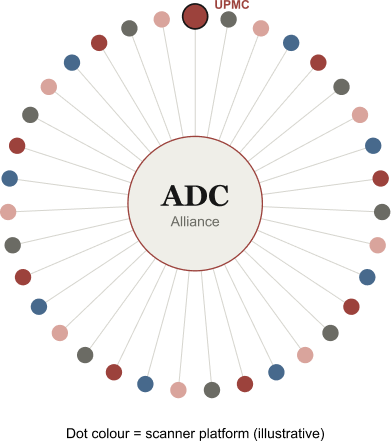
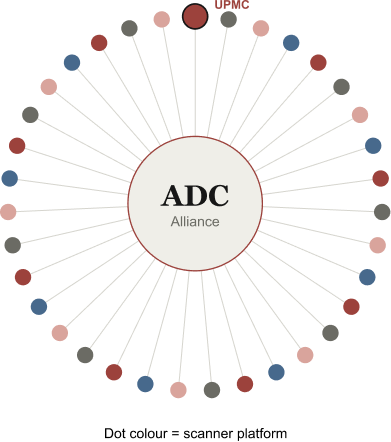
Zoom-out colour, no vote 2, sharper cohort tiles, fewer overlays and caveats
- Zooming out from the slide: the glass tint now fades while you are in
  the tissue, so the overview around the full-resolution region keeps its
  true colour instead of turning grey-blue
- Removed the second vote (with QR) and "How the room read it"; speaker
  notes and README no longer refer to votes
- Cohort grid: 48 in-focus crops cut at ~20x from the full-resolution
  scan (sharpest of 180 candidates), drawn at 2x; the case tile matches
- Final view at Ohio State: the four site overlays are removed
- Search slide: no "Illustrative search concept" tag; "Similar cases"
- ADC graphic: "(illustrative)" removed from the caption

Changed region(s): [[0.1535, 0.9706, 0.8286, 1.0]]

diff --git a/assets/content.js b/assets/content.js
@@ -5,7 +5,7 @@
 //   rail   which rail item is current (defaults to its position)
 //   quote  what the speaker says on screen
 //   chrome the title bar of the screen frame (defaults to the demo's)
-//   tag    a flag in the title bar, e.g. "Illustrative search concept"
+//   tag    a flag in the title bar, e.g. "Research concept · not validated"
 //   screen what the live demo shows (the placeholder text when there is no media)
 //   images screenshots, clicked through in order; then the iframe, if there is one
 //   iframe a live PathPresenter link (iframeAction labels the click that opens it)
@@ -183,7 +183,7 @@ window.CONTENT = {
             { src: 'assets/wsi/consult/Order-stain-more.png', alt: 'Additional stain selected' },
             { src: 'assets/wsi/consult/more-order-stain.png', alt: 'Stain ordered' },
           ],
-          notes: 'Archana, beat 4 (2:05 to 2:40). Request DUX4. "These will tell me which way this goes. They\'re cut, scanned, and they land in this case with everything else, whichever lab cut them and whichever scanner they came off. I\'m notified when they\'re ready." Don\'t name the diagnosis yet; it stays sealed until the second vote.'
+          notes: 'Archana, beat 4 (2:05 to 2:40). Request DUX4. "These will tell me which way this goes. They\'re cut, scanned, and they land in this case with everything else, whichever lab cut them and whichever scanner they came off. I\'m notified when they\'re ready." Don\'t name the diagnosis yet; it is revealed at the end.'
         },
         {
           quote: 'Can I mark the tumor, assess adequacy, and request the molecular testing needed to resolve the diagnosis?', chrome: "Beaker · Cincinnati Children's Hospital · PV26-001",
@@ -205,7 +205,7 @@ window.CONTENT = {
           ],
           iframe: 'assets/wsi/consult/final-report.pdf',
           iframeAction: 'Open the final report',
-          notes: 'Archana, beat 6 (3:15 to 4:15). "My report starts with what came in: the patient, the referring diagnosis, and the stains already done. I add my stains, the AI result I accepted, and my diagnosis and comment, which I\'ll keep to myself until the end so you can vote again. The consult code is already right. When I sign out, the completed consult report goes electronically back into Swati\'s original Beaker case, and she\'s notified. She completes her reporting in her own LIS. There\'s no printing a report, faxing it, packaging slides, or shipping anything back."'
+          notes: 'Archana, beat 6 (3:15 to 4:15). "My report starts with what came in: the patient, the referring diagnosis, and the stains already done. I add my stains, the AI result I accepted, and my diagnosis and comment, which I\'ll keep to myself until the end. The consult code is already right. When I sign out, the completed consult report goes electronically back into Swati\'s original Beaker case, and she\'s notified. She completes her reporting in her own LIS. There\'s no printing a report, faxing it, packaging slides, or shipping anything back."'
         },
       ],
     },
@@ -216,12 +216,12 @@ window.CONTENT = {
       steps: [
         {
           rail: 0, notes: 'Matt, beat 1 (0:20 to 1:05). "Before I write a single query, I start with the image. I draw a region on our case and ask the Alliance the question every pathologist asks: have we seen this before? The search runs on the pixels, not the words. The region becomes an image embedding, and it is compared against every slide this project is permitted to see. Back come the closest matches, from different sites, different scanners, different staining labs. Each one is a real case with a report, IHC, molecular results, treatment and follow-up behind it. For the pathologist, that\'s a reference library. For the researcher, it\'s the first glimpse of a cohort. But to search 35 institutions at once, you first need 35 institutions willing to work together." Site numbers, scanners and similarity scores are placeholders, not results.',
-          quote: 'Have we seen this before? Ask with the slide itself.', chrome: 'PathPresenter Research · ADC Alliance · Search by image', tag: 'Illustrative search concept · not live results',
+          quote: 'Have we seen this before? Ask with the slide itself.', chrome: 'PathPresenter Research · ADC Alliance · Search by image',
           html: `<div class="v-search">
             <div class="v-query"><p class="v-label">Query · our case</p>
               <figure class="v-tile v-tile-big"><div style="background-image:url(${WSI}/field40.jpg)"><i class="v-region"></i></div><figcaption>H&amp;E region drawn on our case</figcaption></figure>
               <p class="v-note">Region selected on the slide, converted to an image embedding, compared across every permitted slide.</p></div>
-            <div class="v-matches"><p class="v-label">Example matches · not study findings</p>
+            <div class="v-matches"><p class="v-label">Similar cases</p>
               <div class="v-grid">${[['07', '0.94', 'A'], ['22', '0.92', 'C'], ['03', '0.91', 'B'], ['31', '0.89', 'A'], ['14', '0.88', 'D'], ['19', '0.86', 'B']].map(([s, c, k], i) => match(i + 1, `Site ${s} <b>${c}</b>`, `<span>Scanner ${k}</span>`)).join('')}</div></div>
             <p class="v-foot">Potential value: similar morphology linked to available records, within institutional permissions. Results shown are illustrative.</p>
             <p class="v-credit">Match images: Wikimedia Commons, CC BY-SA 3.0 / 4.0 and CC BY 2.0 (credits in README)</p></div>` },
@@ -355,7 +355,7 @@ window.CONTENT = {
           ],
           iframe: 'https://pathpresenter.net/public/takeAssessment?token=9a3149d0',
           iframeAction: 'Open the assessment',
-          notes: 'Junya, beat 3 (1:30 to 2:05). "Before I teach, I want to know what they know. I build the question on the slide itself: here is the H&E, what is your diagnosis? This is where my learners start." The room\'s own Vote 1 is the same question with the same four options; point back to it, but don\'t show the answer.'
+          notes: 'Junya, beat 3 (1:30 to 2:05). "Before I teach, I want to know what they know. I build the question on the slide itself: here is the H&E, what is your diagnosis? This is where my learners start." It is the same differential Raj showed at the start; point back to it, but don\'t show the answer.'
         },
         {
           quote: 'Before I teach, I want to know what they know.',
@@ -406,7 +406,7 @@ window.CONTENT = {
             { src: 'assets/wsi/education/conference-poster-list.png', alt: 'Conference poster list' },
             { src: 'assets/wsi/education/conferencce-poster-view.png', alt: 'A conference poster' }
           ],
-          notes: 'Junya. The conference: the room and the online audience on the same slide. Then the journey slide; Raj takes the second vote.'
+          notes: 'Junya. The conference: the room and the online audience on the same slide. Then the journey slide.'
         },
       ],
     },
@@ -434,9 +434,7 @@ window.CONTENT = {
     's-cohort': 'Matt. The cohort, visualized: the traveling case pulls back into the collection, then the query narrows it. If the traveling case cannot be in the alliance data, say "cases like ours".',
     's-send3': 'Transition, about 10 seconds. 11,317 km across the Pacific, into a teaching collection. Still no glass shipped.',
     's-card4': 'Junya, beat 0 (0:00 to 0:20). "Matt turned one case into a dataset. I\'m going to turn it into teaching, for a resident down the hall and for a pathologist on the other side of the world, at the same time." His segment runs 4:50.',
-    's-world': 'Raj. 159 plus 414 plus 11,317 km: 11,890 km in all. Four sites, three handoffs, no glass shipped. Then straight into the second vote.',
-    's-vote2': 'Same question, same QR. This is the post-assessment; the room sees its own before and after.',
-    's-compare': 'Fill in live from the poll. "Now we know whether we taught anything. That is evidence, not a feeling."',
+    's-world': 'Raj. 159 plus 414 plus 11,317 km: 11,890 km in all. Four sites, three handoffs, no glass shipped. Then back to the field at Ohio State.',
     's-home': 'Every site\'s work sits on the same field, in the same case. The camera dives back to Ohio State and the 40x field.',
     's-diagnosis': 'Archana, about 30 seconds, then hand back to Raj. "CIC-rearranged sarcoma." Walk what settled it: the CD99 was patchy instead of diffusely membranous; ETV4 and WT1 were nuclear, which pointed to a CIC rearrangement; DUX4 and fusion testing at Cincinnati Children\'s confirmed it. Then why it matters: it behaves worse than Ewing sarcoma and responds less to Ewing-type chemotherapy, so the name changes the conversation with the oncologist. Raj, one line to turn into the close: "Four institutions, one answer, and the patient never waited for a box to arrive. That\'s what better together means." Confirm the stains and molecular result the case actually has before showing.',
     's-history': 'Raj, 45 seconds. "We built around the pathologist, not around a product category. In 2018 I needed a better way to teach. Then the FDA asked whether we could collect research-grade data at scale, so we built research. Then the pandemic locked pathologists out of their labs, and they started sending each other consults, so we built consults. Primary diagnosis came last. The build order is the argument: every module you saw today began as a gap we hit as pathologists, and was built for the person signing out the case." The 70,000+ users figure is carried over from an earlier draft; confirm before showing.',

diff --git a/assets/app.js b/assets/app.js
@@ -250,7 +250,10 @@
     if (glassW < 2) return;
     // the glass fades into a dot once it is a few pixels wide
     const ga = clamp01((glassW - 4 * U) / (14 * U));
-    drawLayer(TEX.glass, G.w / 1000, G.h / 1000, cx + G.cx * kmm, cy + G.cy * kmm, k, ga);
+    // zoomed into the tissue, the glass tint would grey the overview around the
+    // full-resolution tiles, so it fades out once the slide is several screens wide
+    const gIn = clamp01((7 * W - glassW) / (4 * W));
+    drawLayer(TEX.glass, G.w / 1000, G.h / 1000, cx + G.cx * kmm, cy + G.cy * kmm, k, ga * gIn);
     const O = T.OVERVIEW;
     // multiply, so the scan's white background takes on the glass beneath it
     ctx.globalCompositeOperation = 'multiply';
@@ -650,17 +653,17 @@
     const matches = new Set();
     while (matches.size < 17) { const i = Math.floor(r() * cols * rows); if (i !== caseIndex) matches.add(i); }
     for (let i = 0; i < cols * rows; i++) {
-      const c = document.createElement('canvas'); c.width = 128; c.height = 96;
+      const c = document.createElement('canvas'); c.width = 256; c.height = 192;   // 2x, sharp on high-DPI screens
       const g = c.getContext('2d');
       if (i === caseIndex) {
         const f = TEX.field40;
-        g.drawImage(f, f.naturalWidth * 0.3, f.naturalHeight * 0.15, f.naturalWidth * 0.5, f.naturalHeight * 0.667, 0, 0, 128, 96);
+        g.drawImage(f, f.naturalWidth * 0.393, f.naturalHeight * 0.358, f.naturalWidth * 0.2133, f.naturalHeight * 0.2844, 0, 0, 256, 192);   // same ~0.13 mm field as the sprite crops
         c.className = 'is-case';
       } else {
         const cell = Math.floor(r() * TISSUE.spriteCells), sx = (cell % 8) * 256, sy = Math.floor(cell / 8) * 192;
         g.filter = `hue-rotate(${(r() - 0.5) * 24}deg) saturate(${0.75 + r() * 0.5}) brightness(${0.94 + r() * 0.12})`;
-        if (r() < 0.5) { g.translate(128, 96); g.rotate(Math.PI); }
-        g.drawImage(TEX.sprite, sx, sy, 256, 192, 0, 0, 128, 96);
+        if (r() < 0.5) { g.translate(256, 192); g.rotate(Math.PI); }
+        g.drawImage(TEX.sprite, sx, sy, 256, 192, 0, 0, 256, 192);
         if (matches.has(i)) c.className = 'is-match';
       }
       grid.appendChild(c);
@@ -766,7 +769,6 @@
   // A site's demo: one step per stage of its demo slide, words from content.js.
   const demo = (key, at, from = 0, to) => CONTENT.demos[key].steps.slice(from, to)
     .map((d, i) => ({ slide: `s-demo-${key}`, stage: from + i, veil: 1, at, notes: d.notes }));
-  const ALL_MARKS = ['columbus', 'cincinnati', 'pittsburgh', 'nagasaki'];
   const STEPS = [
     // the opening, at 40x at Ohio State
     { slide: 's-title', veil: 0.9, view: 'lab40', enter: () => { setTitle(0); tween(300, 3200, setTitle); } },
@@ -802,18 +804,11 @@
     // 04 · Teach
     { slide: 's-card4', veil: 0, view: 'nagasaki', at: 'nagasaki', scale: true },
     ...demo('teach', 'nagasaki'),
-    // close: the whole journey, the second vote, back to the same field, then the platform story
+    // close: the whole journey, back to the same field, then the platform story
     { slide: 's-world', veil: 0, view: 'globe', at: 'nagasaki', scale: true, learners: true,
       enter: () => { S.spin = false; S.learners = 0; flight(VIEWS.globe, 4200, { rho: 1.3, done: startSpin }); tween(3200, 5000, t => { S.learners = t; }); countTotal(); } },
-    { slide: 's-vote2', veil: 0.94, view: 'globe', at: 'nagasaki', learners: true },
-    { slide: 's-compare', veil: 0.94, view: 'globe', at: 'nagasaki', learners: true },
-    { slide: 's-home', veil: 0, view: 'lab40', at: 'columbus', home: true, scale: true, marks: ALL_MARKS, captionDelay: 9800,
-      enter: () => {
-        S.spin = false;
-        ALL_MARKS.forEach(k => { S.marks[k] = 0; });
-        flight(VIEWS.lab40, 10000, { rho: 1.5 });
-        ALL_MARKS.forEach((k, i) => tween(10200 + i * 900, 900, t => { S.marks[k] = t; }));
-      } },
+    { slide: 's-home', veil: 0, view: 'lab40', at: 'columbus', home: true, scale: true, captionDelay: 9800,
+      enter: () => { S.spin = false; flight(VIEWS.lab40, 10000, { rho: 1.5 }); } },
     { slide: 's-diagnosis', veil: 1, view: 'lab40' },
     { slide: 's-history', veil: 1, view: 'globe' },
     { slide: 's-never', veil: 1, view: 'globe' },

diff --git a/index.html b/index.html
@@ -3504,56 +3504,7 @@
       </div>
     </section>
 
-    <section class="slide" id="s-vote2" aria-label="Vote 2">
-      <div class="content">
-        <p class="kicker">Vote 2 of 2 · After four sites</p>
-        <h2 class="h-l">Would you change your read?</h2>
-        <div style="display:flex;justify-content:space-between;align-items:flex-end;margin-top:3cqw">
-          <ol class="options" style="margin:0">
-            <li><b>A</b>Ewing sarcoma</li>
-            <li><b>B</b>Alveolar rhabdomyosarcoma</li>
-            <li><b>C</b>CIC-rearranged sarcoma</li>
-            <li><b>D</b>Desmoplastic small round cell tumor</li>
-          </ol>
-          <div class="qr ph" data-qr="poll" style="width:14cqw;height:14cqw">[Same QR code as vote 1]</div>
-        </div>
-      </div>
-    </section>
 
-    <section class="slide" id="s-compare" aria-label="Vote comparison">
-      <div class="content">
-        <p class="kicker">Same room, <span class="tbd">[__]</span> minutes later</p>
-        <h2 class="h-m">How the room read it</h2>
-        <table class="compare">
-          <tr>
-            <th>Read</th>
-            <th>Vote 1</th>
-            <th>Vote 2</th>
-          </tr>
-          <tr>
-            <td>A · Ewing sarcoma</td>
-            <td class="tbd">[__]%</td>
-            <td class="tbd">[__]%</td>
-          </tr>
-          <tr>
-            <td>B · Alveolar rhabdomyosarcoma</td>
-            <td class="tbd">[__]%</td>
-            <td class="tbd">[__]%</td>
-          </tr>
-          <tr>
-            <td>C · CIC-rearranged sarcoma</td>
-            <td class="tbd">[__]%</td>
-            <td class="tbd">[__]%</td>
-          </tr>
-          <tr>
-            <td>D · Desmoplastic small round cell tumor</td>
-            <td class="tbd">[__]%</td>
-            <td class="tbd">[__]%</td>
-          </tr>
-        </table>
-        <p class="body serif" style="margin-top:2cqw;font-size:1.8cqw">Evidence, not a feeling.</p>
-      </div>
-    </section>
 
     <section class="slide" id="s-home" aria-label="Back at Ohio State">
       <div class="panel caption">
@@ -3853,10 +3804,10 @@
   <script src="assets/vendor/topojson-client.min.js"></script>
   <script src="assets/vendor/qrcode.js"></script>
   <script src="assets/vendor/openseadragon.min.js"></script>
-  <script src="assets/geo/data.js?v=20261014e"></script>
-  <script src="assets/content.js?v=20261014e"></script>
-  <script src="assets/tissue.js?v=20261014e"></script>
-  <script src="assets/app.js?v=20261014e"></script>
+  <script src="assets/geo/data.js?v=20261014g"></script>
+  <script src="assets/content.js?v=20261014g"></script>
+  <script src="assets/tissue.js?v=20261014g"></script>
+  <script src="assets/app.js?v=20261014g"></script>
 </body>
 
 </html>

diff --git a/README.md b/README.md
@@ -19,7 +19,7 @@ offline.
   for labels and headings, Overpass Mono for coordinates and distances, and
   Source Serif 4 italic for water and quotes. Fonts are vendored in `assets/fonts`. Home and End jump to the first and last slide.
 - `#12` in the URL opens slide 12.
-- Whenever the slide is on screen at 40x (the opening case, both votes, the
+- Whenever the slide is on screen at 40x (the opening case, the differential, the
   return home and the final diagnosis) the stage is a slide viewer: drag to
   move, scroll or pinch to zoom, double-click to zoom in, `+`/`-` to zoom and
   `0` to reset. Clicks don't advance on those views; arrow keys and clickers
@@ -48,8 +48,8 @@ editing so browsers reload.
 1. Title (a map cartouche with the four stops and presenters), disclosures,
    the question that started it (diagnose, consult, discover, teach)
 2. The case at 40x at Ohio State: round blue cells in a 14-year-old (forearm
-   excision), vote 1 (Ewing sarcoma, alveolar rhabdomyosarcoma, CIC-rearranged
-   sarcoma, DSRCT), why a second read matters (Ray-Coquard et al., Ann Oncol
+   excision), the differential (Ewing sarcoma, alveolar rhabdomyosarcoma,
+   CIC-rearranged sarcoma, DSRCT), why a second read matters (Ray-Coquard et al., Ann Oncol
    2012), the overview with the leg distances
 3. The camera pulls back from the slide to Columbus. 01 · Care: the whole case
    in one place, then Swati's eight demo steps
@@ -60,7 +60,7 @@ editing so browsers reload.
    built visuals for search by image and the ADC Alliance, the contributing
    datasets, and the cohort grid after "Build a cohort"
 6. Leg 3, 11,317 km across the Pacific. 04 · Teach: Junya's seven steps
-7. The whole journey (11,890 km), vote 2, the comparison, and the dive back
+7. The whole journey (11,890 km), and the dive back
    to the same 40x field at Ohio State with all four sites' annotations
 8. The diagnosis (CIC-rearranged sarcoma), how it was built, the case never
    started over, the intelligence layer, status, tissue intelligence, better
@@ -103,7 +103,7 @@ which case the frame shows the `screen` text as a placeholder.
 - The six image-search matches in Discover (`assets/img/matches/`) are
   look-alike small round cell tumours from Wikimedia Commons, cropped to 4:3
   to a similar high-power field, and resized. They are not labelled on the slide, so the diagnosis stays
-  sealed until the second vote. Credits (licences apply to the crops too):
+  sealed until the reveal at the end. Credits (licences apply to the crops too):
   1. Ewing sarcoma: "Ewing Sarcoma (2274259503).jpg", Ed Uthman, CC BY 2.0
   2. CIC-DUX4 sarcoma: "CIC-DUX-sarcoma.jpg", Jensflorian, CC BY-SA 4.0
   3. Alveolar rhabdomyosarcoma: "Alveolar rhabdomyosarcoma 1.jpg", Humpath,
